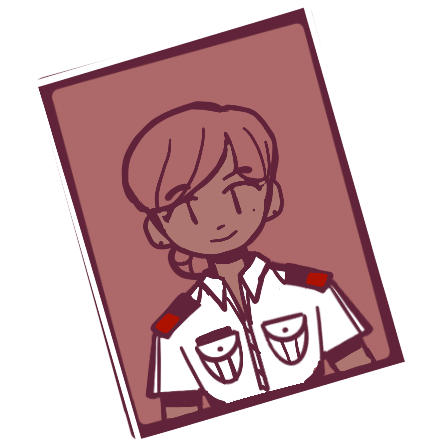
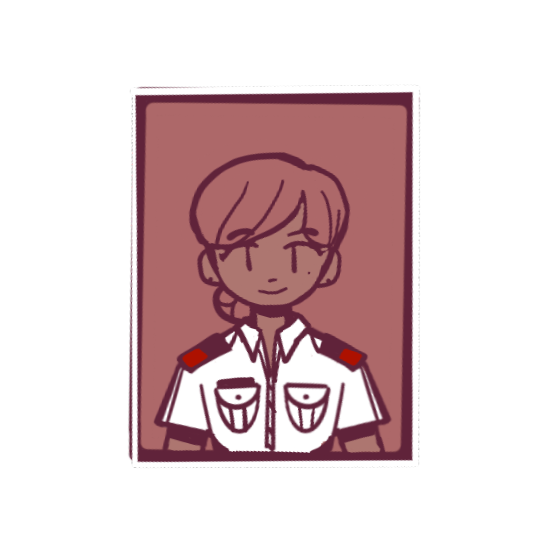
updates portraits and added next turn list

diff --git a/ui.py b/ui.py
@@ -261,9 +261,7 @@ class UI:
         else:
             self.screen.fill(BG_COLOR)
         if board:
-            self.display_board(
-                board, players
-            )  # Call a method to draw the game board (implement as needed)
+            self.display_board(board, players)  # Call a method to draw the game board
             
         # If there's a message to display, show it
         if self.message_duration > 0:
@@ -274,6 +272,7 @@ class UI:
 
         self.display_buttons()  # Call a method to display the dice
         self.display_current_turn()
+        self.display_leaderboard()
         for menu in self.open_menus:
             menu.draw(self.screen)
         if not pygame.mixer.music.get_busy():
@@ -389,11 +388,39 @@ class UI:
                     width = self.screen.get_width() / 100
                 else:
                     width = self.screen.get_height() / 60
-                portrait = pygame.transform.scale(portrait, (width * 20, width * 20))
+                portrait = pygame.transform.rotate(portrait, 16)
+                portrait = pygame.transform.scale(portrait, (width * 28, width * 28))
                 portrait_rect = portrait.get_rect(
-                    bottomleft=(0 - width, self.screen.get_height() - width)
+                    bottomleft=(0 - 40, self.screen.get_height() + 30)
                 )
                 self.screen.blit(portrait, portrait_rect)
+            playerlist = self.game_manager.players
+            for player in range(len(playerlist)):
+                if self.player == playerlist[player]:
+                    start = player
+                    break
+            move_over = 0
+            for player in range(len(playerlist)-1):
+                start += 1
+                move_over += 1
+                if start >= len(playerlist):
+                    start = 0
+                image = pygame.transform.scale(pygame.image.load(playerlist[start].image), (width * 5, width * 10))
+                image_rect = image.get_rect(
+                    bottomleft=(((15 + (move_over*4))*self.screen.get_width()/100), self.screen.get_height() - 10)
+                )
+                self.screen.blit(image, image_rect)
+
+
+
+    def display_leaderboard(self):
+        self.font = pygame.font.Font(None, 16)
+        if self.player:
+            playerlist={}
+            for player in self.game_manager.players:
+                playerlist.update({player.name:random.randint(1,10)})
+            info = ("Leaderboard", playerlist, pygame.image.load("Resources/test_meeple.png"))
+            self.Buttons[1].update_info(info)
 
     def change_current_player(self, player):
         self.player = player
@@ -1007,15 +1034,13 @@ class CardDisplays(Button):
             for item in self.info[1]:
                 stat = font.render(str(item), True, BLACK)
                 val = font.render(str(self.info[1][item]), True, BLACK)
-                buttonimg.blit(stat, (50 * width, base * height))
+                buttonimg.blit(stat, (60 * width, base * height))
                 buttonimg.blit(val, (85 * width, base * height))
                 base = base + 10
-            portrait = pygame.transform.scale(self.info[2], (width * 40, width * 40))
+            portrait = pygame.transform.scale(self.info[2], (width * 50, width * 50))
             portrait_rect = portrait.get_rect(
-                bottomleft=(0 - width + 10, (height * 100) - width - 5)
+                bottomleft=(0 - width + 10, (height * 100) - width + 5)
             )
-            outline = portrait_rect.scale_by(0.67, 0.8)
-            pygame.draw.rect(buttonimg, BLACK, outline, 3)
             buttonimg.blit(portrait, portrait_rect)
         return buttonimg
 
